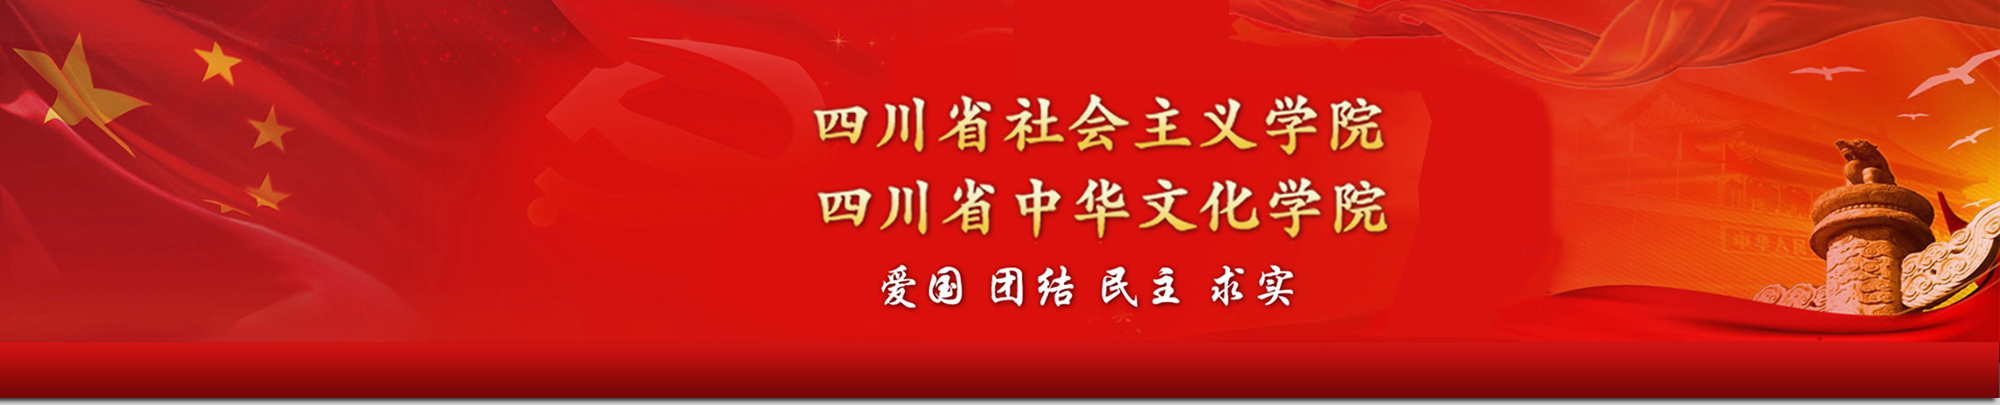
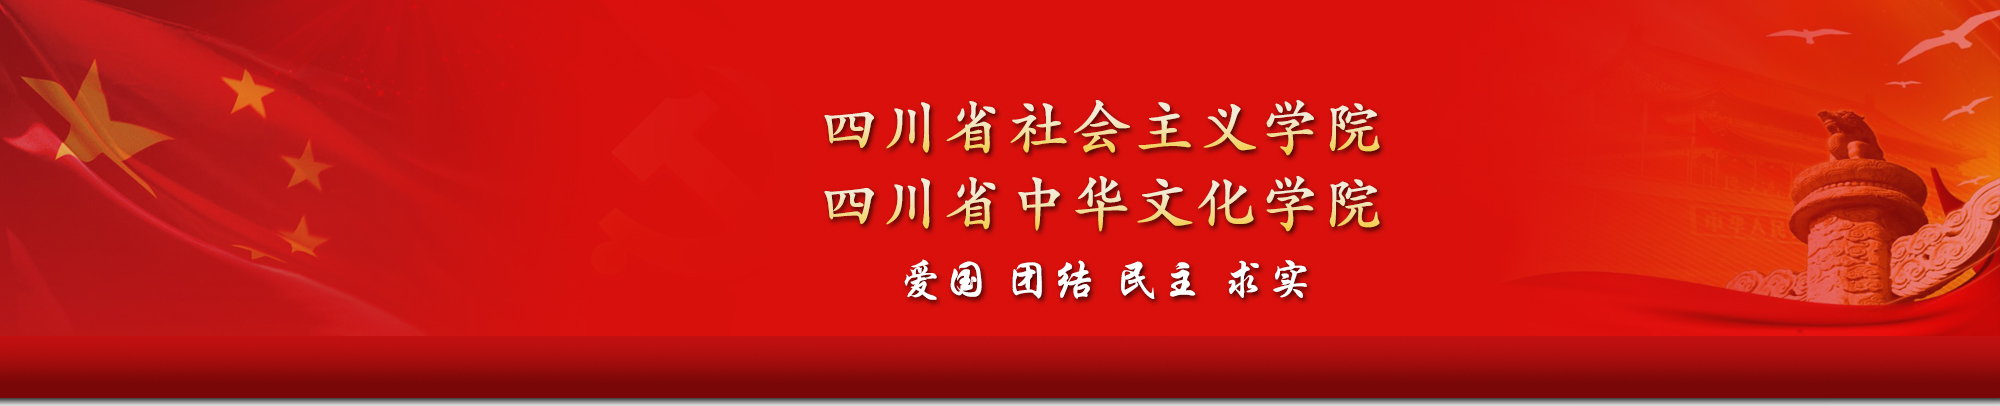
2018032601

diff --git a/advanced/frontend/web/front/css/whxy_layout.css b/advanced/frontend/web/front/css/whxy_layout.css
@@ -5,20 +5,33 @@ ul{list-style: none;}
 address, cite, dfn, em, var, i {font-style: normal;}
 .btn,.btn:focus,.btn:active{padding:5px 10px;border:0px;border-radius: 2px;background:#f3f3f3;outline: none;}
 input:-webkit-autofill, input:-webkit-autofill:hover,input:-webkit-autofill:focus,input:-webkit-autofill:active {-webkit-transition-delay: 99999s;-webkit-transition: color 99999s ease-out, background-color 99999s ease-out;}
+.right{float:right;}
+.left{float:left;}
 /*头部*/
 .header{height: 288px;width: 100%;min-width: 1200px;max-width: 2000px;margin: 0 auto;background: url(../img/news/whxy_top_bg.jpg) no-repeat center !important; background-size: 2000px 288px;}
+.header .container{width:1200px;margin:0 auto;}
 /*头部搜索框*/
 .header form{display:inline-block;}
 .header .full-text-search {width: 1200px;margin: 0 auto;box-sizing: border-box;padding-top: 10px;padding-right: 15px;color: red;text-align: right;}
-.full-text-search .search-form-sp,.full-text-search .search-btn-sp,.full-text-search input{-moz-box-sizing: border-box;  /*Firefox3.5+*/-webkit-box-sizing: border-box; /*Safari3.2+*/-o-box-sizing: border-box; /*Opera9.6*/-ms-box-sizing: border-box; /*IE8*/box-sizing: border-box; /*W3C标准(IE9+，Safari5.1+,Chrome10.0+,Opera10.6+都符合box-sizing的w3c标准语法)*/}
+.full-text-search .search-form-sp,.full-text-search .search-btn-sp,.full-text-search input{-moz-box-sizing: border-box;  /*Firefox3.5+*/-webkit-box-sizing: border-box; /*Safari3.2+*/-o-box-sizing: border-box; /*Opera9.6*/-ms-box-sizing: border-box; /*IE8*/box-sizing: border-box; }
 .header .full-text-search .search-form-sp{display: inline-block;width: 200px;height: 25px;border: 1px solid red;    border-top-left-radius: 4px;border-bottom-left-radius: 4px;}
 .full-text-search input,.full-text-search input:focus,.full-text-search input:active{background-color: transparent;border: 0px;width: 200px;height: 25px;outline:none;padding-left: 2px;}
 .full-text-search .search-btn-sp{width: 40px;}
 .full-text-search .search-btn-sp button{outline: none;background-color: red;border: 0;height: 25px;line-height: 25px;padding-top: 1px;margin-left: -4px;color: #fff;}
 .header .full-text-search a{text-decoration: none;color: red;font-weight: bold;margin-left: 5px;    display: inline-block;height: 25px;line-height: 25px;padding: 0px 10px;}
+
+.search-box {height:30px;margin-top:5px;}
+.search-box form{display: inline-block; margin-right: 30px;}
+.search-box .search-text{height: 27px;width: 241px; background: url(../img/index/search_bg.png) no-repeat center !important;position: relative;display: block;}
+.search-box .login-reg-box{float: right;height:27px;line-height:27px;}
+.search-text input, .search-text input:focus, .search-text input:active {background: none;border: none;height: 27px;outline: none;box-sizing: border-box;padding-left: 5px;width: 200px;float: left;}
+.search-text button,.search-text button:active,.search-text button:focus,.search-text button:visited{width: 40px;height: 27px;background: none;border: none;outline: none;float: left;}
+.search-box span,.search-box a,.login-reg-box{color: #FFFFFF;}
+
+
 /*头部右侧轮播图*/
-.header .header-crousel{width: 1200px;margin: 0 auto;box-sizing: border-box;height: 200px;margin-top: -10px;text-align: right;position: relative;}
-.header .header-crousel .crousel-parent{width: 447px;height: 200px;overflow: hidden;float: right;}
+.header .header-crousel{clear: both;width: 1200px;margin: 0 auto;box-sizing: border-box;height: 192px;margin-top: -10px;text-align: right;position: relative;}
+.header .header-crousel .crousel-parent{width: 447px;height: 190px;overflow: hidden;float: right;}
 .header .header-crousel .crousel img{background-clip: padding-box;display: block;float: left;}
 .header .header-crousel .crousel{width:1341px;height:200px;-webkit-animation:change 10s linear infinite; /*10s是整个动画的秒数 infinite永久循环*/}
 @-webkit-keyframes change{

diff --git a/advanced/frontend/web/front/css/index.css b/advanced/frontend/web/front/css/index.css
@@ -4,11 +4,11 @@
 .news-box1,.news-box2,.news-box3,.news-box4,.news-box5{width: 100%;display: block;position: relative;box-sizing: border-box;overflow: hidden;}
 /*统战新闻 时政要闻*/
 .news-box1 .tzxw,.news-box1 .szyw{height: 158px;width: 563px;border:2px solid red;border-left: 4px solid red;border-radius: 2px;margin-bottom: 15px;position: relative;;overflow: hidden}
-.tzxw>.theme-box,.szyw>.theme-box{width: 60px;height: 147px;margin-top: 5.5px;}
+.tzxw>.theme-box,.szyw>.theme-box{width: 60px;height: 147px;margin-top: 5.5px;margin-left: -1px;}
 .tzxw>.news,.szyw>.news{width: 503px;height: 158px;position: relative;box-sizing: border-box;}
 .tzxw>.news{padding: 15px 28px;}
 .szyw>.news{padding: 13px;}
-.tzxw>.theme-box{background: url(../img/index/tzxw_bg.jpg) center no-repeat !important;}
+.tzxw>.theme-box{background: url(../img/index/tzxw_bg.png) center no-repeat !important;}
 .szyw>.theme-box{background: url(../img/index/szyw_bg.png) center no-repeat !important;}
 
 .tzxw>.news h4 a,.news-box3>.news-list-box>.news-list .news-hot h4 a{font-size: 25px;font-weight: 500;color:#000;}
@@ -21,9 +21,9 @@
 .news-box2{height: 321px;}
 .news-box2>.news-img-box img{width: 684px;height: 321px;}
 .news-box2>.news-items{width: 486px;height: 321px;}
-.news-box2>.news-items>.item{width: 486px;height: 95px;margin-bottom: 18px;box-sizing: border-box;padding: 10px 15px;background: url(../img/index/news_item_unselected.png) no-repeat !important;background-size: 486px 95px; cursor: pointer;}
-.news-box2>.news-items>.item h4{font-size: 22px;font-weight: 500;width: 400px;}
-.news-box2>.news-items>.item p{line-height: 22px;display: -webkit-box;-webkit-box-orient: vertical;-webkit-line-clamp: 2;overflow: hidden;width: 400px;}
+.news-box2>.news-items>.item{width: 486px;height: 96px;margin-bottom: 18px;box-sizing: border-box;padding: 10px 15px;background: url(../img/index/news_item_unselected.png) no-repeat !important;background-size: 486px 95px; cursor: pointer;}
+.news-box2>.news-items>.item h4{font-size: 22px;font-weight: 500;width: 460px;}
+.news-box2>.news-items>.item p{line-height: 22px;display: -webkit-box;-webkit-box-orient: vertical;-webkit-line-clamp: 2;overflow: hidden;width: 460px;}
 .news-box2>.news-items>.selected{background: url(../img/index/news_item_selected.png) no-repeat !important;}
 .news-box2>.news-items>.selected h4,.news-box2>.news-items>.selected p,.news-box2>.news-items>.selected h4,.news-box2>.news-items>.selected a{color: #FFFFFF;}
 /*新闻列表*/
@@ -32,7 +32,7 @@
 .news-box3>.ggtz-box{width: 317px;height: 430px;background: url(../img/index/news_ggtz_bg.png) center no-repeat !important;background-size: 317px 430px;position: relative;overflow: hidden;}
 
 .news-box3>.news-list-box>.news-cates{padding: 10px;}
-.news-box3>.news-list-box>.news-cates>.cate{height: 46px;line-height: 46px;width: 207px;text-align: center;font-size: 20px;font-weight: 700;color: #000;margin-bottom: 6px;background: url(../img/index/news_list_unselected.png) center no-repeat !important;cursor: pointer;}
+.news-box3>.news-list-box>.news-cates>.cate{height: 47px;line-height: 47px;width: 207px;text-align: center;font-size: 20px;font-weight: 700;color: #000;margin-bottom: 5px;background: url(../img/index/news_list_unselected.png) center no-repeat !important;cursor: pointer;}
 .news-box3>.news-list-box>.news-cates>.selected{background: url(../img/index/news_list_selected.png) center no-repeat !important;color: #FFFFFF;}
 
 .news-box3>.news-list-box>.news-list{width: 620px;height: 430px;box-sizing: border-box;padding: 20px 25px 10px 30px;position: relative;display:none;}

diff --git a/advanced/frontend/web/front/css/newsUnitedFront.css b/advanced/frontend/web/front/css/newsUnitedFront.css
@@ -3,6 +3,8 @@ section{background:#fff;}
 	height:182px;
 	max-height: 182px;
 	margin-top: -15px;
+	margin-left:-15px;
+	width:1200px;
 }
 .section .main{min-height:500px;}
 .section .navigation{

diff --git a/advanced/backend/web/admin/css/certificate.css b/advanced/backend/web/admin/css/certificate.css
@@ -1,0 +1,7 @@
+@charset "utf-8";
+.certificate{
+	background:url('../images/certificate.jpg');
+	background-size:1200px 848px;
+	width:1200px;
+	height:848px;
+}

diff --git a/advanced/common/models/Student.php b/advanced/common/models/Student.php
@@ -56,31 +56,31 @@ class Student extends BaseModel
     public function rules()
     {
         return [
-            ['trueName','required','message'=>'姓名不能为空','on'=>'add'],
-            ['sex','required','message'=>'性别不能为空','on'=>'add'],
-            ['IDnumber','required','message'=>'身份证号码不能为空','on'=>'add'],
-        	['IDnumber','match','pattern'=>'/^\d{6}(19|20)?\d{2}(0[1-9]|1[012])(0[1-9]|[12]\d|3[01])\d{3}(\d|[xX])$/','message'=>'身份证号码无效','on'=>'add'],
-            ['birthday','required','message'=>'出生年月不能为空','on'=>'add'],
+            ['trueName','required','message'=>'姓名不能为空','on'=>['add','edit']],
+            ['sex','required','message'=>'性别不能为空','on'=>['add','edit']],
+            ['IDnumber','required','message'=>'身份证号码不能为空','on'=>['add','edit']],
+            ['IDnumber','match','pattern'=>'/^\d{6}(19|20)?\d{2}(0[1-9]|1[012])(0[1-9]|[12]\d|3[01])\d{3}(\d|[xX])$/','message'=>'身份证号码无效','on'=>['add','edit']],
+            ['birthday','required','message'=>'出生年月不能为空','on'=>['add','edit']],
             //['nation','required','message'=>'名族不能为空','on'=>'add'],
-            ['nationCode','required','message'=>'名族不能为空','on'=>'add'],
-            ['city','required','message'=>'所在城市不能为空','on'=>'add'],
+            ['nationCode','required','message'=>'名族不能为空','on'=>['add','edit']],
+            ['city','required','message'=>'所在城市不能为空','on'=>['add','edit']],
             ['phone','required','message'=>'手机号不能为空','on'=>'add'],
         	['phone','match','pattern'=>'/^[1][34578][0-9]{9}$/','message'=>'手机号无效','on'=>'add'],
-            ['company','required','message'=>'现工作单位不能为空','on'=>'add'],
-            ['workYear','required','message'=>'工作年限不能为空','on'=>'add'],
+            ['company','required','message'=>'现工作单位不能为空','on'=>['add','edit']],
+            ['workYear','required','message'=>'工作年限不能为空','on'=>['add','edit']],
         	['workYear', 'compare', 'compareValue' => 0, 'operator' => '>=','message'=>'工作年限必须正整数'],
-            ['graduationSchool','required','message'=>'毕业学校不能为空','on'=>'add'],
-            ['graduationMajor','required','message'=>'毕业专业不能为空','on'=>'add'],
-            ['eduationCode','required','message'=>'学历不能为空','on'=>'add'],
-            ['politicalStatusCode','required','message'=>'政治面貌不能为空','on'=>'add'],
+            ['graduationSchool','required','message'=>'毕业学校不能为空','on'=>['add','edit']],
+            ['graduationMajor','required','message'=>'毕业专业不能为空','on'=>['add','edit']],
+            ['eduationCode','required','message'=>'学历不能为空','on'=>['add','edit']],
+            ['politicalStatusCode','required','message'=>'政治面貌不能为空','on'=>['add','edit']],
 
             [['search','address','selfIntruduce','positionalTitles','avater'],'safe']
         ];
     }
     
-    public static function add(array $data,Student $model,$oprate = 'bm')
+    public static function add(array $data,Student $model,$oprate = 'add')
     {
-        $model->scenario = 'add';
+        $model->scenario = $oprate;
         if($model->load($data) && $model->validate()){
             $model->userId = Yii::$app->user->id;
             $model->nation = Yii::$app->params['nations'][$model->nationCode];

diff --git a/advanced/backend/controllers/StudentController.php b/advanced/backend/controllers/StudentController.php
@@ -10,6 +10,7 @@ use common\controllers\CommonController;
 use common\models\Student;
 use common\models\BestStudent;
 use common\models\BmRecord;
+use yii\db\Expression;
 /**
  * @name 学员管理
  * @author wt
@@ -129,7 +130,7 @@ class StudentController extends CommonController
             $bmRecord->verifyReason2 = $reasons2;
             $bmRecord->verifyAdmin2  = Yii::$app->user->id;
             $bmRecord->verifyTime2   = TIMESTAMP;
-            $bmRecord->studyNum  = date('Ymd').$student->politicalStatusCode.self::getStudyNumInGradeClass($bmRecord->gradeClass);
+            $bmRecord->studyNum  = date('Ymd').$student->politicalStatusCode.self::getStudyNumInGradeClass($bmRecord->gradeClassId);
             if($bmRecord->save(false)){
                 return $this->showSuccess('student/info?id='.$id);
             }else{
@@ -141,7 +142,7 @@ class StudentController extends CommonController
     
     private static function getStudyNumInGradeClass($gradeClassId)
     {
-        $num = BmRecord::find()->where(['gradeClassId'=>$gradeClassId,'verify'=>3])->groupBy('userId')->count('id');
+        $num = BmRecord::find()->select('id')->where(['gradeClassId'=>$gradeClassId,'verify'=>3])->count('DISTINCT userId');
         $num ++;
         if($num < 10){
             return '00'.$num;
@@ -150,6 +151,7 @@ class StudentController extends CommonController
         }else{
             return $num;
         }
+        
     }
     
     /**
@@ -220,6 +222,16 @@ class StudentController extends CommonController
             }
         }
         return $this->render('edit_best',['info'=>$student,'model'=>$model,'title'=>'修改优秀学员']);
+    }
+    
+    public function actionPrint(int $id)
+    {
+        $bmRecord= BmRecord::findOne($id);
+        if(empty($bmRecord)){
+            return $this->showDataIsNull('student/manage');
+        }
+        
+        return $this->render('print');
     }
     
 }

diff --git a/advanced/frontend/views/layouts/whxy.php b/advanced/frontend/views/layouts/whxy.php
@@ -26,6 +26,7 @@ $params = $this->params;
 <?php $this->beginBody() ?>
 <header class="header">
 			<div class="container">
+				<!--  
 				<div class="full-text-search">
 					<?php echo  Html::beginForm(Url::to(['site/search','pcode'=>'whxy']),'get');?>
 					<span class="search-form-sp"><?php echo Html::activeTextInput($params['searchModel'],'search[keywords]');?></span>
@@ -37,6 +38,19 @@ $params = $this->params;
 					欢迎您，<a href="<?php echo Url::to(['user/center']);?>"><?php echo Yii::$app->user->identity->account;?></a> | <a href="<?php echo Url::to(['user/logout']);?>">退出</a>
 					<?php endif;?>
 				</div>
+				-->
+				<div class="right search-box">
+    				<?php echo  Html::beginForm(Url::to(['site/search']),'get');?>
+    					<span class="search-text"><?php echo Html::activeTextInput($params['searchModel'],'search[keywords]');?><?php echo Html::submitButton('')?></span>
+    				<?php echo Html::endForm();?>
+    				<div class="login-reg-box">
+    					<?php if(Yii::$app->user->isGuest):?>
+    					<a href="<?php echo Url::to(['user/login']);?>">登录</a> | <a href="<?php echo Url::to(['user/reg']);?>">注册</a>
+    					<?php else :?>
+    					欢迎您，<a href="<?php echo Url::to(['user/center']);?>"><?php echo Yii::$app->user->identity->account;?></a> | <a href="<?php echo Url::to(['user/logout']);?>">退出</a>
+    					<?php endif;?>
+    				</div>
+    			</div>
 				<div class="header-crousel">
 					<div class="logo">
 						<img src="<?php echo '/front/img/news/whxy_logo.png';?>" width="180px" />

diff --git a/advanced/backend/views/gradeclass/add.php b/advanced/backend/views/gradeclass/add.php
@@ -26,6 +26,9 @@ $url =Url::to([$controller->id.'/'.$controller->action->id, 'id' => $id]);
 <ul class="forminfo">
     <li><label>班级名称<b>*</b></label><?php echo Html::activeTextInput($model, 'className',['class'=>'dfinput'])?><i>班级名称长度为2-20个字</i></li>
     <li><label>班级人数<b>*</b></label><?php echo Html::activeTextInput($model, 'classSize',['class'=>'dfinput'])?><i>班级人数5-60人</i></li>
+    
+    <li><label>班级期数<b>*</b></label><?php echo Html::activeInput('number',$model, 'periods',['class'=>'dfinput'])?><i>班级期数不能为空</i></li>
+    
     <li><label>报名时间<b>*</b></label><?php echo Html::activeTextInput($model, 'joinStartDate',['class'=>'dfinput joinStartDate','style'=>'width:240px;','placeholder'=>'开始时间'])?> - 
     <?php echo Html::activeTextInput($model, 'joinEndDate',['class'=>'dfinput joinEndDate','style'=>'width:240px;','placeholder'=>'结束时间'])?>
     </li>

diff --git a/advanced/backend/views/gradeclass/manage.php b/advanced/backend/views/gradeclass/manage.php
@@ -40,6 +40,7 @@ use backend\assets\AppAsset;
             <th><input name="" type="checkbox" class="s-all" /></th>
             <th>班级名称</th>
             <th>班级人数</th>
+            <th>班级期数</th>
             <th>报名时间</th>
             <th>开班时间</th>
             <th>结业时间</th>
@@ -64,6 +65,7 @@ use backend\assets\AppAsset;
             <td><input name="ids" class="item" type="checkbox" value="<?php echo $val['id'];?>" /></td>
             <td><?php echo $val['className'];?></td>
             <td><?php echo $val['classSize'];?></td>
+            <td><?php echo $val['periods'];?></td>
             <td><?php echo $val['joinStartDate'].'~'.$val['joinEndDate'];?></td>
             <td><?php echo $val['openClassTime'];?></td>
             <td><?php echo $val['closeClassTime'];?></td>

diff --git a/advanced/backend/views/student/print.php b/advanced/backend/views/student/print.php
@@ -1,0 +1,39 @@
+<?php
+
+use yii\helpers\Url;
+use yii\helpers\ArrayHelper;
+use yii\helpers\Html;
+use backend\assets\AppAsset;
+
+
+$controller = Yii::$app->controller;
+$query = Yii::$app->request->get();
+$url =Url::to(ArrayHelper::merge([$controller->id.'/'.$controller->action->id], $query));
+?>
+
+<div class="place">
+    <span>位置：</span>
+    <ul class="placeul">
+        <li><a href="javascript:;">用户管理系统</a></li>
+        <li><a href="<?php echo Url::to(['student/manage'])?>">学员管理</a></li>
+        <li><a href="<?php echo $url;?>">打印结业证书</a></li>
+    </ul>
+</div>
+
+<div class="rightinfo">
+
+	<div id="printArea">
+		
+		<div class="certificate">
+		
+		
+		</div>
+		
+	</div>
+
+</div>
+
+<?php 
+
+AppAsset::addCss($this, '/admin/css/certificate.css');
+?>

diff --git a/advanced/backend/views/download/add.php b/advanced/backend/views/download/add.php
@@ -52,7 +52,7 @@ $url =Url::to([$controller->id.'/'.$controller->action->id, 'id' => $id]);
     <?php if(Yii::$app->session->hasFlash('error')):?>
     	<li><label>&nbsp;</label><span class="error-tip"><?php echo Yii::$app->session->getFlash('error');?></span></li>
     <?php endif;?>
-    <li><label>&nbsp;</label><a href="javascript:;" class="btn" id="formSubmit">确认保持</a> <?php // echo Html::submitInput('确认保存',['class'=>'btn','id'=>'formSubmit'])?></li>
+    <li><label>&nbsp;</label><a href="javascript:;" class="btn" id="formSubmit">确认上传</a> <?php // echo Html::submitInput('确认保存',['class'=>'btn','id'=>'formSubmit'])?></li>
 </ul>
 <?php  echo Html::endForm();?>
 </div>

diff --git a/advanced/common/models/GradeClass.php b/advanced/common/models/GradeClass.php
@@ -49,6 +49,9 @@ class GradeClass extends BaseModel
             ['currentTeachs','number','min'=>0,'message'=>'本院教师任课节数数据无效','on'=>['create','edit']],
             ['invitTeachs','number','min'=>0,'message'=>'邀约教师任课节数数据无效','on'=>['create','edit']],
             
+            ['periods','required','message'=>'班级期数不能为空','on'=>['create','edit']],
+            ['periods','number','min'=>1,'message'=>'班级期数数据无效','on'=>['create','edit']],
+            
             ['createAdminId','default','value'=>Yii::$app->user->id],
             [['curPage','pageSize','search','remarks'],'safe']
         ];    
